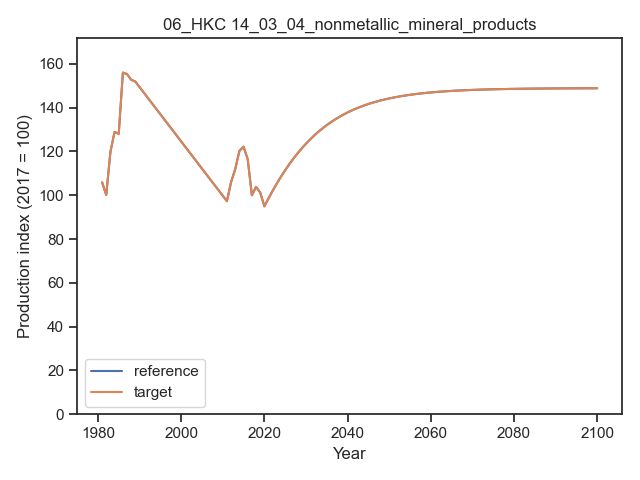
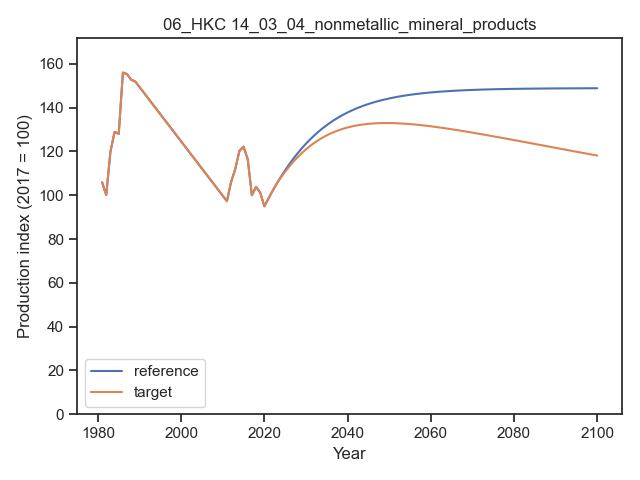
27Feb2024 update I

diff --git a/workflow/scripts/e3_subsector_energy_intensity.py b/workflow/scripts/e3_subsector_energy_intensity.py
@@ -84,6 +84,24 @@ nonenergy_use(economy = '01_AUS', increment_ref = 0.0025, increment_tgt = 0.005,
               start_year = 2025, end_year = 2100)
 
 ##################################################################################
+# Brunei D
+# Mining
+energy_use(economy = '02_BD', sub1sectors = ind1[0], sub2sectors = 'x',
+           increment_ref = 0.002, increment_tgt = 0.004, start_year = 2025, end_year = 2100)
+
+# Chemicals
+energy_use(economy = '02_BD', sub1sectors = ind1[2], sub2sectors = ind2[1],
+           increment_ref = 0.0025, increment_tgt = 0.005, start_year = 2028, end_year = 2100)
+
+# Non-specified
+energy_use(economy = '02_BD', sub1sectors = ind1[2], sub2sectors = ind2[10],
+           increment_ref = 0.005, increment_tgt = 0.0075, start_year = 2025, end_year = 2100)
+
+# Non-energy
+nonenergy_use(economy = '02_BD', increment_ref = 0.0025, increment_tgt = 0.005, 
+              start_year = 2028, end_year = 2100)
+
+##################################################################################
 # Canada
 # Mining
 energy_use(economy = '03_CDA', sub1sectors = ind1[0], sub2sectors = 'x',
@@ -198,6 +216,57 @@ energy_use(economy = '05_PRC', sub1sectors = ind1[2], sub2sectors = ind2[10],
 # Non-energy
 nonenergy_use(economy = '05_PRC', increment_ref = 0.003, increment_tgt = 0.006, 
               end_year = 2100)
+
+##################################################################################
+# Hong Kong
+# Mining
+energy_use(economy = '06_HKC', sub1sectors = ind1[0], sub2sectors = 'x',
+           increment_ref = 0.002, increment_tgt = 0.004, start_year = 2025, end_year = 2100)
+
+# Construction
+energy_use(economy = '06_HKC', sub1sectors = ind1[1], sub2sectors = 'x',
+           increment_ref = 0.003, increment_tgt = 0.006, start_year = 2025, end_year = 2100)
+
+# Chemicals
+energy_use(economy = '06_HKC', sub1sectors = ind1[2], sub2sectors = ind2[1],
+           increment_ref = 0.0025, increment_tgt = 0.005, start_year = 2025, end_year = 2100)
+
+# Non-metallic mineral products
+energy_use(economy = '06_HKC', sub1sectors = ind1[2], sub2sectors = ind2[3],
+           increment_ref = 0.0025, increment_tgt = 0.005, start_year = 2025, end_year = 2100)
+
+# Transportation equipment
+energy_use(economy = '06_HKC', sub1sectors = ind1[2], sub2sectors = ind2[4],
+           increment_ref = 0.005, increment_tgt = 0.0075, start_year = 2025, end_year = 2100)
+
+# Machinery
+energy_use(economy = '06_HKC', sub1sectors = ind1[2], sub2sectors = ind2[5],
+           increment_ref = 0.005, increment_tgt = 0.0075, start_year = 2025, end_year = 2100)
+
+# Food and beverage
+energy_use(economy = '06_HKC', sub1sectors = ind1[2], sub2sectors = ind2[6],
+           increment_ref = 0.004, increment_tgt = 0.008, start_year = 2025, end_year = 2100)
+
+# Pulp and paper
+energy_use(economy = '06_HKC', sub1sectors = ind1[2], sub2sectors = ind2[7],
+           increment_ref = 0.003, increment_tgt = 0.006, start_year = 2025, end_year = 2100)
+
+# Wood and wood products
+energy_use(economy = '06_HKC', sub1sectors = ind1[2], sub2sectors = ind2[8],
+           increment_ref = 0.003, increment_tgt = 0.006, start_year = 2025, end_year = 2100)
+
+# Textiles
+energy_use(economy = '06_HKC', sub1sectors = ind1[2], sub2sectors = ind2[9],
+           increment_ref = 0.003, increment_tgt = 0.006, start_year = 2025, end_year = 2100)
+
+# Non-specified
+energy_use(economy = '06_HKC', sub1sectors = ind1[2], sub2sectors = ind2[10],
+           increment_ref = 0.005, increment_tgt = 0.0075, start_year = 2025, end_year = 2100)
+
+# Non-energy
+nonenergy_use(economy = '06_HKC', increment_ref = 0.0025, increment_tgt = 0.005, 
+              start_year = 2025, end_year = 2100)
+
 
 ##################################################################################
 # Indonesia

diff --git a/workflow/scripts/d3_trajectory_refine.py b/workflow/scripts/d3_trajectory_refine.py
@@ -99,8 +99,10 @@ industry_traj(economy = '01_AUS', sub1sectors = ind1[2], sub2sectors = ind2[10],
 nonenergy_traj(economy = '01_AUS', proj_start_year = 2021,
               shape = 'increase', magnitude = 0.5, data = nonenergy_production)
 
-############################################################################################################
-# Brunei
+#################################### Brunei D #################################################################
+# Mining, chemicals, non-specified and non-energy: no adjustment
+
+# All other sectors: no data
 
 #################################### Canada #################################################################
 # Mining
@@ -211,7 +213,48 @@ industry_traj(economy = '05_PRC', sub1sectors = ind1[2], sub2sectors = ind2[10],
 nonenergy_traj(economy = '05_PRC', proj_start_year = 2023,
               shape = 'peak', magnitude = 0.8, apex_mag = 1.4, apex_loc = 10, data = nonenergy_production)
 
-# HKC
+#################################### Hong Kong, China ############################################################
+# Mining: no adjustment
+
+# Construction
+industry_traj(economy = '06_HKC', sub1sectors = ind1[1], sub2sectors = 'x', proj_start_year = 2023,
+              shape = 'decrease', magnitude = 0.9, data = industry_interim) 
+
+# Steel: no data
+
+# Chemicals: no adjustment
+
+# Non-ferrous metals: no data
+
+# Non-metallic minerals: no adjustment
+
+# Transportation equipment
+industry_traj(economy = '06_HKC', sub1sectors = ind1[2], sub2sectors = ind2[4], proj_start_year = 2022,
+              shape = 'decrease', magnitude = 0.9, data = industry_interim)
+
+# Machinery
+industry_traj(economy = '06_HKC', sub1sectors = ind1[2], sub2sectors = ind2[5], proj_start_year = 2021,
+              shape = 'decrease', magnitude = 1.1, data = industry_interim)
+
+# Food and beverages
+industry_traj(economy = '06_HKC', sub1sectors = ind1[2], sub2sectors = ind2[6], proj_start_year = 2023,
+              shape = 'decrease', magnitude = 1.4, data = industry_interim)
+
+# Pulp and paper
+industry_traj(economy = '06_HKC', sub1sectors = ind1[2], sub2sectors = ind2[7], proj_start_year = 2021,
+              shape = 'decrease', magnitude = 0.9, data = industry_interim)
+
+# Wood and wood products
+industry_traj(economy = '06_HKC', sub1sectors = ind1[2], sub2sectors = ind2[8], proj_start_year = 2021,
+              shape = 'decrease', magnitude = 1.1, data = industry_interim)
+
+# Textiles
+industry_traj(economy = '06_HKC', sub1sectors = ind1[2], sub2sectors = ind2[9], proj_start_year = 2021,
+              shape = 'decrease', magnitude = 0.9, data = industry_interim)
+
+# Non-specified: no adjustment
+
+# Non-energy: no adjustment
 
 ################################# Indonesia #############################################################
 # Mining: no adjustment

diff --git a/workflow/scripts/d5_two_scenarios.py b/workflow/scripts/d5_two_scenarios.py
@@ -65,6 +65,20 @@ scenario_adj_ne(economy = '01_AUS',
                 increment = -0.003, start_year = 2023, end_year = 2100, data = nonenergy_refine2)
 
 ##########################################################################################
+# Brunei
+# Mining
+scenario_adj(economy = '02_BD', sub1sectors = ind1[0], sub2sectors = 'x', 
+             increment = 0.01, start_year = 2024, end_year = 2040, data = industry_refine2)
+
+# Chemicals: Material efficiency
+scenario_adj(economy = '02_BD', sub1sectors = ind1[2], sub2sectors = ind2[1], 
+             increment = -0.0025, start_year = 2028, end_year = 2100, data = industry_refine2)
+
+# Non-energy
+scenario_adj_ne(economy = '02_BD', 
+                increment = -0.0025, start_year = 2028, end_year = 2100, data = nonenergy_refine2)
+
+##########################################################################################
 # Canada
 # Mining
 scenario_adj(economy = '03_CDA', sub1sectors = ind1[0], sub2sectors = 'x', 
@@ -118,6 +132,28 @@ scenario_adj(economy = '05_PRC', sub1sectors = ind1[2], sub2sectors = ind2[7],
 
 # Non-energy
 scenario_adj_ne(economy = '05_PRC', 
+                increment = -0.003, start_year = 2023, end_year = 2100, data = nonenergy_refine2)
+
+##########################################################################################
+# Hong Kong
+# Mining
+scenario_adj(economy = '06_HKC', sub1sectors = ind1[0], sub2sectors = 'x', 
+             increment = 0.01, start_year = 2024, end_year = 2040, data = industry_refine2)
+
+# Chemicals: Material efficiency
+scenario_adj(economy = '06_HKC', sub1sectors = ind1[2], sub2sectors = ind2[1], 
+             increment = -0.003, start_year = 2023, end_year = 2100, data = industry_refine2)
+
+# Cement (non-metallic minerals): Material efficiency
+scenario_adj(economy = '06_HKC', sub1sectors = ind1[2], sub2sectors = ind2[3], 
+             increment = -0.003, start_year = 2023, end_year = 2100, data = industry_refine2)
+
+# Pulp, paper, and printing
+scenario_adj(economy = '06_HKC', sub1sectors = ind1[2], sub2sectors = ind2[7], 
+             increment = -0.002, start_year = 2023, end_year = 2100, data = industry_refine2)
+
+# Non-energy
+scenario_adj_ne(economy = '06_HKC', 
                 increment = -0.003, start_year = 2023, end_year = 2100, data = nonenergy_refine2)
 
 ##########################################################################################

diff --git a/workflow/scripts/f4_run_fuel_switch_projection.py b/workflow/scripts/f4_run_fuel_switch_projection.py
@@ -108,6 +108,23 @@ fuel_switch(economy = '01_AUS', sector = ind2[10], elec_rate_tgt = 0.021, bio_st
 fuel_switch_ne(economy = '01_AUS', hyd_increment_ref = 0.002, hyd_increment_tgt = 0.005, 
                gas_switch_ref = False, gas_switch_tgt = False)
 
+##################################################################################################################
+# Brunei
+# Mining: no data
+
+# Chemicals
+fuel_switch(economy = '02_BD', sector = ind2[1], elec_rate_ref = 0.002, elec_rate_tgt = 0.004,
+            hydrogen_ref = False, hydrogen_tgt = False, ccs_ref = False, ccs_tgt = False,
+            hyd_start_tgt = 2030, hyd_increment_tgt = 0.004, hyd_fuel_mix = {'16_x_hydrogen': 1.0, '17_electricity': 0.0})
+
+# Non-specified
+fuel_switch(economy = '02_BD', sector = ind2[10], elec_rate_tgt = 0.01, c2g_rate_ref = 0.002, 
+            c2g_rate_tgt = 0.008, c2g_start_ref = 2027, c2g_start_tgt = 2027)
+
+# Non-energy
+fuel_switch_ne(economy = '02_BD', hyd_increment_ref = 0.002, hyd_increment_tgt = 0.005, 
+               gas_switch_ref = False, gas_switch_tgt = False)
+
 ###########################################################################################################
 # Canada
 # Mining
@@ -217,6 +234,16 @@ fuel_switch(economy = '05_PRC', sector = ind2[10], elec_rate_tgt = 0.01)
 # Non-energy
 fuel_switch_ne(economy = '05_PRC', hyd_increment_ref = 0.002, hyd_increment_tgt = 0.005, 
                gas_switch_ref = False, gas_switch_tgt = False)
+
+###########################################################################################################
+# Hong Kong
+# Transport
+fuel_switch(economy = '06_HKC', sector = ind2[4], elec_rate_ref = 0.005, elec_rate_tgt = 0.01)
+
+# Non-specified
+fuel_switch(economy = '06_HKC', sector = ind2[10], elec_rate_tgt = 0.01)
+
+# Non-energy: no data
 
 ##################################################################################################################
 # Indonesia

diff --git a/workflow/scripts/d1_interim_projections.py b/workflow/scripts/d1_interim_projections.py
@@ -54,6 +54,14 @@ alum_df = pd.concat([alum_df, alum_add_on]).sort_values(['economy_code', 'year']
 chem_df = wdi_subsectors[wdi_subsectors['series'] == 'NV.MNF.CHEM.ZS.UN'].copy().reset_index(drop = True)
 chem_df['sub2sectors'] = ind2[1]
 
+chem_brunei = wdi_subsectors[(wdi_subsectors['series'] == 'NV.IND.MANF.ZS') &
+                             (wdi_subsectors['economy_code'] == '02_BD')].copy().reset_index(drop = True)
+
+chem_brunei['series'] = 'NV.MNF.CHEM.ZS.UN'
+chem_brunei['sub2sectors'] = ind2[1]
+
+chem_df = pd.concat([chem_df, chem_brunei]).copy().sort_values(by = ['economy_code', 'year']).reset_index(drop = True)
+
 # Transportation equipment (WDI: MTRN)
 trans_df = wdi_subsectors[wdi_subsectors['series'] == 'NV.MNF.MTRN.ZS.UN'].copy().reset_index(drop = True)
 trans_df['sub2sectors'] = ind2[4]
@@ -91,6 +99,16 @@ ns_df['sub2sectors'] = ind2[10]
 nonenergy_df = wdi_subsectors[wdi_subsectors['series'] == 'NV.MNF.CHEM.ZS.UN'].copy().reset_index(drop = True)
 nonenergy_df['sectors'] = '17_nonenergy_use'
 nonenergy_df['sub1sectors'] = 'x' 
+
+# Edit for Brunei
+nonenergy_bd = wdi_subsectors[(wdi_subsectors['series'] == 'NV.IND.MANF.ZS') &
+                              (wdi_subsectors['economy_code'] == '02_BD')].copy().reset_index(drop = True)
+nonenergy_bd['sectors'] = '17_nonenergy_use'
+nonenergy_bd['sub1sectors'] = 'x'
+
+nonenergy_df = pd.concat([nonenergy_df, nonenergy_bd]).copy().sort_values(by = ['economy_code', 'year']).reset_index(drop = True)
+
+
 
 ################################## All manufacturing #############################################
 all_manf = pd.concat([steel_df, chem_df, alum_df, cement_df, trans_df, mach_df, fb_df, pp_df, ww_df, txt_df, ns_df]).copy().reset_index(drop = True)

diff --git a/workflow/scripts/b2_wdi_projections.py b/workflow/scripts/b2_wdi_projections.py
@@ -43,9 +43,9 @@ ind_projection(economy = '01_AUS', series = 'NV.MNF.TXTL.ZS.UN', low_bound = 0.3
 ##############################################################################################
 # 02_BD
 # Industry (including construction) % GDP
-ind_projection(economy = '02_BD', series = 'NV.IND.TOTL.ZS', high_change = 0.997)
+ind_projection(economy = '02_BD', series = 'NV.IND.TOTL.ZS', high_change = 0.998)
 # Manufacturing % GDP
-ind_projection(economy = '02_BD', series = 'NV.IND.MANF.ZS', low_bound = 10, high_bound = 13, high_change = 0.9986)
+ind_projection(economy = '02_BD', series = 'NV.IND.MANF.ZS', low_bound = 10, high_bound = 13, high_change = 0.999)
 
 ###############################################################################################
 # 03_CDA
@@ -107,7 +107,7 @@ ind_projection(economy = '05_PRC', series = 'NV.MNF.TXTL.ZS.UN', low_bound = 3, 
 ###############################################################################################
 # 06_HKC
 # Industry (including construction) % GDP
-ind_projection(economy = '06_HKC', series = 'NV.IND.TOTL.ZS', low_bound = 4, high_bound = 5)
+ind_projection(economy = '06_HKC', series = 'NV.IND.TOTL.ZS', low_bound = 3, high_bound = 4)
 # Manufacturing % GDP
 ind_projection(economy = '06_HKC', series = 'NV.IND.MANF.ZS', low_bound = 0.3, high_bound = 0.5)
 

diff --git a/workflow/scripts/d4_manual_adjust.py b/workflow/scripts/d4_manual_adjust.py
@@ -35,6 +35,19 @@ industry_refine1 = pd.read_csv('./data/industry_production/4_industry_refine1/re
 nonenergy_refine1 = pd.read_csv('./data/non_energy/2_nonenergy_refine1/refined_nonenergy_all.csv')
 
 ##################################################################
+# Brunei D
+industry_adj(economy = '02_BD',
+             adjust = {2027: 2.4},  
+             sub1sectors = '14_03_manufacturing', 
+             sub2sectors = '14_03_02_chemical_incl_petrochemical',
+             data = industry_refine1)
+
+nonenergy_adj(economy = '02_BD', 
+              adjust = {2027: 2.4},
+              data = nonenergy_refine1)
+
+
+##################################################################
 # Canada
 # Mining
 industry_adj(economy = '03_CDA',

diff --git a/workflow/scripts/f11_industry_final.py b/workflow/scripts/f11_industry_final.py
@@ -29,11 +29,17 @@ id = ['scenarios', 'economy', 'sectors', 'sub1sectors',	'sub2sectors', 'sub3sect
 # Australia
 biogas_switch(economy = '01_AUS', biogas_ref = False, biogas_tgt = False)
 
+# Brunei
+biogas_switch(economy = '02_BD', biogas_ref = False, biogas_tgt = False)
+
 # Canada
 biogas_switch(economy = '03_CDA', biogas_ref = True, biogas_tgt = True, biogas_rate_ref = 0.001, biogas_rate_tgt = 0.002)
 
 # China
 biogas_switch(economy = '05_PRC', biogas_ref = False, biogas_tgt = False)
+
+# Hong Kong, China
+biogas_switch(economy = '06_HKC', biogas_ref = False, biogas_tgt = False)
 
 # Indonesia
 #biogas_switch(economy = '07_INA', biogas_ref = False, biogas_tgt = False)

diff --git a/workflow/scripts/d6_production_charts.py b/workflow/scripts/d6_production_charts.py
@@ -15,7 +15,7 @@ with open(config_file) as infile:
 # Grab APEC economies
 APEC_economies = pd.read_csv('./data/config/APEC_economies.csv', index_col = 0).squeeze().to_dict()
 APEC_economy_list = list(APEC_economies.keys())[:-7]
-#APEC_economy_list = APEC_economy_list[4:5]
+APEC_economy_list = APEC_economy_list[5:6]
 
 # Energy industry subsectors
 industry_sectors = pd.read_csv('./data/EGEDA/industry_egeda.csv', header = None)\

diff --git a/workflow/scripts/g1_coal_transformation.py b/workflow/scripts/g1_coal_transformation.py
@@ -44,7 +44,7 @@ EGEDA_coaltrans = EGEDA_coaltrans[(EGEDA_coaltrans['sub1sectors'] == '09_08_coal
 # Grab APEC economies
 APEC_economies = pd.read_csv('./data/config/APEC_economies.csv', index_col = 0).squeeze().to_dict()
 APEC_economies = list(APEC_economies.keys())[:-7]
-# APEC_economies = APEC_economies[4:5]
+# APEC_economies = APEC_economies[5:6]
 
 # Years
 all_years = list(range(1980, 2101, 1))

diff --git a/workflow/scripts/f7_subfuels_industry.py b/workflow/scripts/f7_subfuels_industry.py
@@ -12,7 +12,7 @@ with open(config_file) as infile:
 # Only use 21 APEC economies (economy_list defined in config file)
 economy_select = economy_list[:-7]
 # Only run one economy option
-# economy_select = economy_select[10:12]
+#economy_select = economy_select[5:6]
 
 # Energy industry subsectors
 industry_sectors = pd.read_csv('./data/EGEDA/industry_egeda.csv', header = None)\

diff --git a/workflow/scripts/f6_aggregate_industry.py b/workflow/scripts/f6_aggregate_industry.py
@@ -12,7 +12,7 @@ with open(config_file) as infile:
 # Only use 21 APEC economies (economy_list defined in config file)
 economy_select = economy_list[:-7]
 # Just choose one economy
-# economy_select = economy_select[4:5]
+economy_select = economy_select[5:6]
 
 # Energy industry subsectors
 industry_sectors = pd.read_csv('./data/EGEDA/industry_egeda.csv', header = None)\
